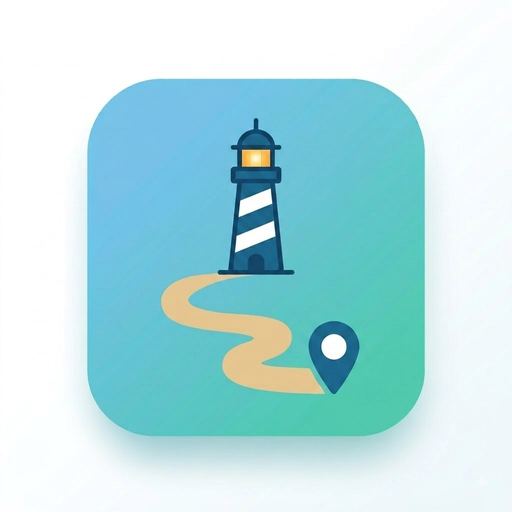
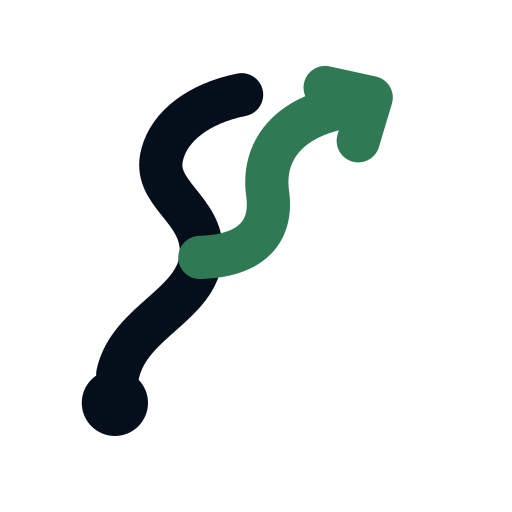
feat(ui): 파비콘을 헤더 브랜드 마크로 통일 + 축제 30건 페이지 번호
- icon.png(512)·favicon.ico(16~64) 투명 배경, apple-icon.png(180) 흰 배경(iOS 검정 채움 방지). 등대 그림 폐기
- 축제: 30건/페이지 번호 페이지네이션(필터 변경 시 1페이지), 정렬은 기존(진행중 종료 임박순 → 예정 시작일순) 유지, 상한 200→500

diff --git a/frontend/components/FestivalsContent.tsx b/frontend/components/FestivalsContent.tsx
@@ -12,7 +12,9 @@ import FestivalStatusFilter, { FestivalStatusValue } from "./festivals/FestivalS
 type FetchStatus = "loading" | "success" | "error";
 
 const SKELETON_COUNT = 8;
-const FETCH_LIMIT = 200; // 지시서 한도("최대200")를 그대로 요청 상한으로 쓴다.
+const FETCH_LIMIT = 500; // 2026-09-20: 서버 상한 500 — 전량 받아 30건씩 페이지로 나눈다.
+// 2026-09-20 대표 결정 — 한 페이지 30건, 1·2·3… 페이지 번호로 나눈다(정렬은 서버: 진행중 종료 임박순 → 예정 시작일순).
+const PAGE_SIZE = 30;
 /** 월 필터를 쓰지 않는 기본 뷰의 조회 기간. 지시서: "기본 뷰는 90 유지". */
 const DEFAULT_WINDOW_DAYS = 90;
 /** 월 필터 선택 시 — 가을 축제 등 먼 시점도 놓치지 않도록 넉넉히 요청(지시서 근거). */
@@ -98,6 +100,14 @@ export default function FestivalsContent() {
     return festivals;
   }, [data?.festivals, statusFilter]);
 
+  // 페이지 번호 — 필터·지역·월이 바뀌면 1페이지로.
+  const [page, setPage] = useState(1);
+  useEffect(() => {
+    setPage(1);
+  }, [selectedRegion, month, statusFilter]);
+  const pageCount = Math.max(1, Math.ceil(filteredFestivals.length / PAGE_SIZE));
+  const pageFestivals = filteredFestivals.slice((page - 1) * PAGE_SIZE, page * PAGE_SIZE);
+
   const retry = () => setRetryTick((t) => t + 1);
 
   return (
@@ -142,7 +152,7 @@ export default function FestivalsContent() {
 
       {status === "success" && filteredFestivals.length > 0 && (
         <div className="festivals-grid" role="list">
-          {filteredFestivals.map((festival) => {
+          {pageFestivals.map((festival) => {
             const s = summaries[String(festival.id)];
             return (
               <FestivalCard
@@ -154,6 +164,31 @@ export default function FestivalsContent() {
             );
           })}
         </div>
+      )}
+
+      {status === "success" && pageCount > 1 && (
+        <nav className="pager" aria-label="축제 목록 페이지">
+          <button type="button" className="pager__btn" disabled={page === 1} onClick={() => setPage(page - 1)}>
+            이전
+          </button>
+          {Array.from({ length: pageCount }, (_, i) => i + 1).map((n) => (
+            <button
+              key={n}
+              type="button"
+              className={`pager__btn pager__num${n === page ? " is-active" : ""}`}
+              aria-current={n === page ? "page" : undefined}
+              onClick={() => {
+                setPage(n);
+                document.getElementById("festivalsHeading")?.scrollIntoView({ block: "start" });
+              }}
+            >
+              {n}
+            </button>
+          ))}
+          <button type="button" className="pager__btn" disabled={page === pageCount} onClick={() => setPage(page + 1)}>
+            다음
+          </button>
+        </nav>
       )}
 
       {status === "error" && (

diff --git a/backend/app/services/festival_service.py b/backend/app/services/festival_service.py
@@ -63,7 +63,7 @@ from ..spots.region_map import get_tourapi_region
 
 logger = logging.getLogger("sumeungil.services.festival")
 
-LIMIT_MIN, LIMIT_MAX, LIMIT_DEFAULT = 1, 200, 10   # 상한 30→200 (축제 전용 페이지. 기본값은 유지)
+LIMIT_MIN, LIMIT_MAX, LIMIT_DEFAULT = 1, 500, 10  # 2026-09-20: 페이지 나누기용으로 500(전량은 캐시 메모리)   # 상한 30→200 (축제 전용 페이지. 기본값은 유지)
 HORIZON_DAYS = 90            # 진행중 + 이 일수 내 시작하는 예정 축제까지 (요청 기본 윈도우)
 WINDOW_MIN, WINDOW_MAX = 1, 365      # window_days 클램프 범위
 SWEEP_HORIZON_DAYS = WINDOW_MAX      # 전국 스윕 캐시가 보유하는 최대 미래 범위(=365일)
